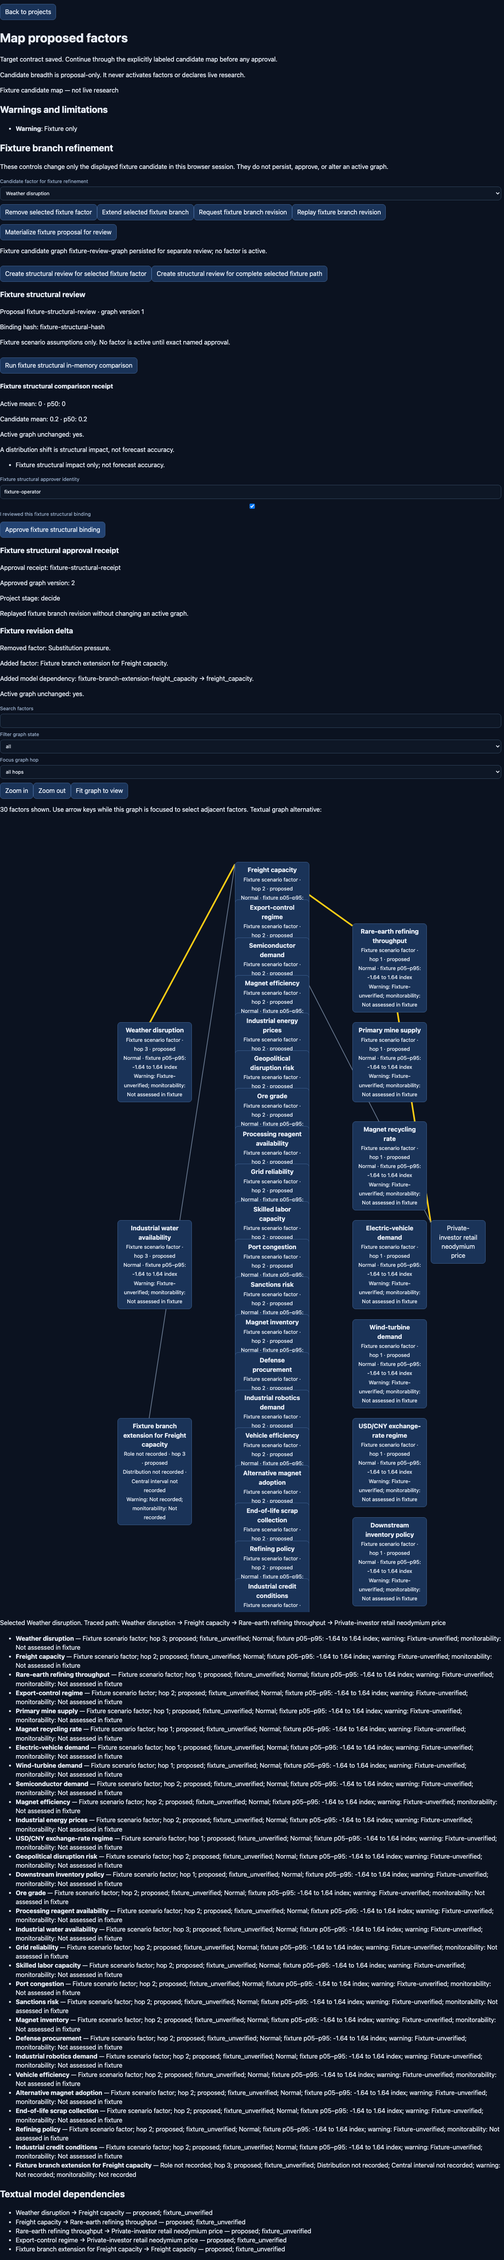
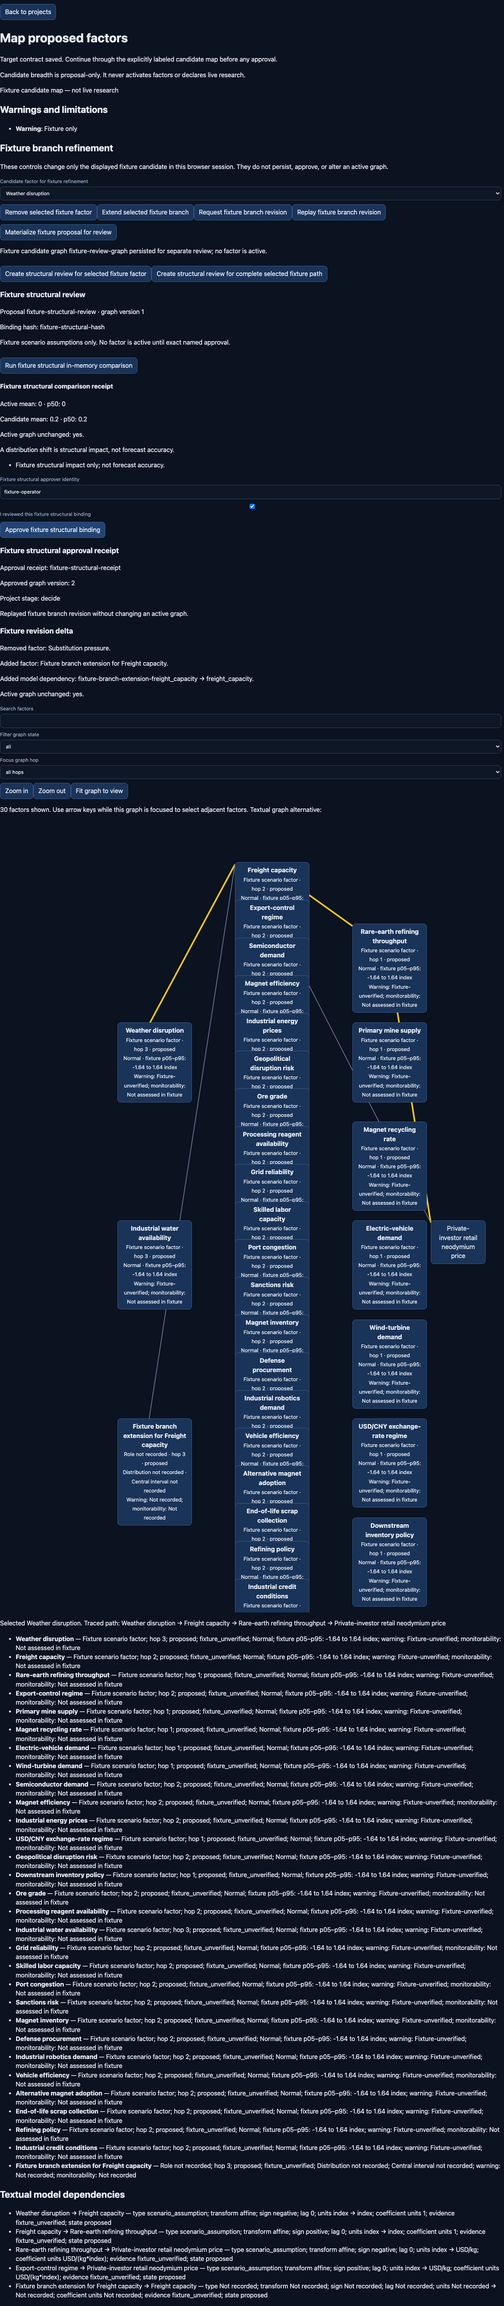
feat(map): show fixture relationship contracts

diff --git a/packages/lns_ui/e2e/canonical-build.spec.ts b/packages/lns_ui/e2e/canonical-build.spec.ts
@@ -356,10 +356,10 @@ test(`canonical fixture Build advances from a persisted target through Vet to a 
       evidence_classification: "fixture_unverified", generation_basis: "deterministic_fixture", active_graph_mutated: false,
       limitations: ["Fixture only"], graph_proposal: { target_node_id: "fixture_target" },
       relationships: [
-        { id: "weather_to_freight", parent_node_id: "weather_disruption", child_node_id: "freight_capacity" },
-        { id: "freight_to_refining", parent_node_id: "freight_capacity", child_node_id: "refining_throughput" },
-        { id: "refining_to_target", parent_node_id: "refining_throughput", child_node_id: "fixture_target" },
-        { id: "china_export_controls_to_target", parent_node_id: "china_export_controls", child_node_id: "fixture_target", transform: "affine", coefficient_parameters: [{ id: "coefficient", value: 0.2 }], state: "proposed" },
+        { id: "weather_to_freight", parent_node_id: "weather_disruption", child_node_id: "freight_capacity", relationship_type: "scenario_assumption", transform: "affine", source_unit: "index", target_unit: "index", sign: "negative", lag_periods: 0, coefficient_units: "1", state: "proposed", evidence_status: "fixture_unverified" },
+        { id: "freight_to_refining", parent_node_id: "freight_capacity", child_node_id: "refining_throughput", relationship_type: "scenario_assumption", transform: "affine", source_unit: "index", target_unit: "index", sign: "positive", lag_periods: 0, coefficient_units: "1", state: "proposed", evidence_status: "fixture_unverified" },
+        { id: "refining_to_target", parent_node_id: "refining_throughput", child_node_id: "fixture_target", relationship_type: "scenario_assumption", transform: "affine", source_unit: "index", target_unit: "USD/kg", sign: "negative", lag_periods: 0, coefficient_units: "USD/(kg*index)", state: "proposed", evidence_status: "fixture_unverified" },
+        { id: "china_export_controls_to_target", parent_node_id: "china_export_controls", child_node_id: "fixture_target", relationship_type: "scenario_assumption", transform: "affine", source_unit: "index", target_unit: "USD/kg", sign: "positive", lag_periods: 0, coefficient_units: "USD/(kg*index)", coefficient_parameters: [{ id: "coefficient", value: 0.2 }], state: "proposed", evidence_status: "fixture_unverified" },
       ], factors,
     }});
   });
@@ -395,7 +395,7 @@ test(`canonical fixture Build advances from a persisted target through Vet to a 
   await expect(page.getByText("Fixture candidate map — not live research")).toBeVisible();
   await expect(page.getByRole("heading", { name: "Warnings and limitations" })).toBeVisible();
   await expect(page.getByRole("group", { name: "Visual target-centered graph" })).toBeVisible();
-  await expect(page.getByLabel("Textual model dependencies")).toContainText("Weather disruption → Freight capacity — proposed; fixture_unverified");
+  await expect(page.getByLabel("Textual model dependencies")).toContainText("Weather disruption → Freight capacity — type scenario_assumption; transform affine; sign negative; lag 0; units index → index; coefficient units 1; evidence fixture_unverified; state proposed");
   await expect(page.getByRole("button", { name: "Weather disruption" })).toContainText("Fixture scenario factor");
   await expect(page.getByRole("button", { name: "Weather disruption" })).toContainText("Normal · fixture p05–p95: -1.64 to 1.64 index");
   await expect(page.getByText(/30 factors shown\. Use arrow keys while this graph is focused/)).toBeVisible();

diff --git a/packages/lns_ui_shared/src/graph/HopGraph.tsx b/packages/lns_ui_shared/src/graph/HopGraph.tsx
@@ -5,6 +5,14 @@ import { layoutHopGraph } from "./layout";
 interface GraphRelationship {
   parent_node_id?: string;
   child_node_id?: string;
+  relationship_type?: string;
+  transform?: string;
+  sign?: string;
+  lag_periods?: number;
+  lag_unit?: string;
+  source_unit?: string;
+  target_unit?: string;
+  coefficient_units?: string;
   state?: string;
   evidence_status?: string;
 }
@@ -112,6 +120,6 @@ export function HopGraph({
     </div>
     {selected && <p role="status">Selected {selectedLabel}{path.length > 0 && <>. Traced path: {path.map((id) => names.get(id) ?? id).join(" → ")}</>}</p>}
     <ul>{filtered.map((factor) => <li key={factor.id} data-x={layout[factor.id]?.x} data-y={layout[factor.id]?.y}><strong>{factor.label}</strong> — {factor.role ?? "Role not recorded"}; hop {factor.hop_distance}; <span>{factor.state}</span>; {factor.evidence_status}; {factor.distribution_family ?? "Distribution not recorded"}; {factor.central_interval ?? "Central interval not recorded"}; warning: {factor.warning ?? "Not recorded"}; monitorability: {factor.monitorability ?? "Not recorded"}</li>)}</ul>
-    <section aria-label="Textual model dependencies"><h2>Textual model dependencies</h2>{relationships.length === 0 ? <p>No model dependencies recorded.</p> : <ul>{relationships.map((relationship, index) => <li key={`${relationship.parent_node_id}-${relationship.child_node_id}-${index}`}>{names.get(relationship.parent_node_id ?? "") ?? "Unknown factor"} → {names.get(relationship.child_node_id ?? "") ?? "Unknown factor"} — {relationship.state ?? "proposed"}; {relationship.evidence_status ?? "fixture_unverified"}</li>)}</ul>}</section>
+    <section aria-label="Textual model dependencies"><h2>Textual model dependencies</h2>{relationships.length === 0 ? <p>No model dependencies recorded.</p> : <ul>{relationships.map((relationship, index) => <li key={`${relationship.parent_node_id}-${relationship.child_node_id}-${index}`}>{names.get(relationship.parent_node_id ?? "") ?? "Unknown factor"} → {names.get(relationship.child_node_id ?? "") ?? "Unknown factor"} — type {relationship.relationship_type ?? "Not recorded"}; transform {relationship.transform ?? "Not recorded"}; sign {relationship.sign ?? "Not recorded"}; lag {typeof relationship.lag_periods === "number" ? `${relationship.lag_periods}${relationship.lag_unit ? ` ${relationship.lag_unit}` : ""}` : "Not recorded"}; units {relationship.source_unit ?? "Not recorded"} → {relationship.target_unit ?? "Not recorded"}; coefficient units {relationship.coefficient_units ?? "Not recorded"}; evidence {relationship.evidence_status ?? "fixture_unverified"}; state {relationship.state ?? "proposed"}</li>)}</ul>}</section>
   </section>;
 }

diff --git a/packages/lns_ui_shared/src/testing/graphFixture.ts b/packages/lns_ui_shared/src/testing/graphFixture.ts
@@ -67,10 +67,10 @@ export function createNeodymiumGraphFixture(): CandidateGraphFixture & {
     },
     factors,
     relationships: [
-      { parent_node_id: "weather_disruption", child_node_id: "freight_capacity" },
-      { parent_node_id: "freight_capacity", child_node_id: "refining_throughput" },
-      { parent_node_id: "refining_throughput", child_node_id: target.target_node_id },
-      { parent_node_id: "china_export_controls", child_node_id: target.target_node_id, id: "china_export_controls_to_target", transform: "affine", coefficient_parameters: [{ id: "coefficient", value: 0.2 }], state: "proposed" },
+      { id: "weather_to_freight", parent_node_id: "weather_disruption", child_node_id: "freight_capacity", relationship_type: "scenario_assumption", transform: "affine", source_unit: "index", target_unit: "index", sign: "negative", lag_periods: 0, coefficient_units: "1", state: "proposed", evidence_status: "fixture_unverified" },
+      { id: "freight_to_refining", parent_node_id: "freight_capacity", child_node_id: "refining_throughput", relationship_type: "scenario_assumption", transform: "affine", source_unit: "index", target_unit: "index", sign: "positive", lag_periods: 0, coefficient_units: "1", state: "proposed", evidence_status: "fixture_unverified" },
+      { id: "refining_to_target", parent_node_id: "refining_throughput", child_node_id: target.target_node_id, relationship_type: "scenario_assumption", transform: "affine", source_unit: "index", target_unit: "USD/kg", sign: "negative", lag_periods: 0, coefficient_units: "USD/(kg*index)", state: "proposed", evidence_status: "fixture_unverified" },
+      { parent_node_id: "china_export_controls", child_node_id: target.target_node_id, id: "china_export_controls_to_target", relationship_type: "scenario_assumption", transform: "affine", source_unit: "index", target_unit: "USD/kg", sign: "positive", lag_periods: 0, coefficient_units: "USD/(kg*index)", coefficient_parameters: [{ id: "coefficient", value: 0.2 }], state: "proposed", evidence_status: "fixture_unverified" },
     ],
   };
 }

diff --git a/packages/lns_ui_shared/src/graph/HopGraph.test.tsx b/packages/lns_ui_shared/src/graph/HopGraph.test.tsx
@@ -13,7 +13,7 @@ describe("HopGraph", () => {
     expect(screen.getByRole("searchbox", { name: "Search factors" })).toBeVisible();
     expect(screen.getByRole("button", { name: "Weather disruption" })).toBeVisible();
     expect(screen.getAllByText("proposed")[0]).toBeVisible();
-    expect(screen.getByLabelText("Textual model dependencies")).toHaveTextContent("Weather disruption → Freight capacity — proposed; fixture_unverified");
+    expect(screen.getByLabelText("Textual model dependencies")).toHaveTextContent("Weather disruption → Freight capacity — type scenario_assumption; transform affine; sign negative; lag 0; units index → index; coefficient units 1; evidence fixture_unverified; state proposed");
     expect(screen.getByRole("button", { name: "Weather disruption" })).toHaveTextContent("Fixture scenario factor");
     expect(screen.getByRole("button", { name: "Weather disruption" })).toHaveTextContent("Normal · fixture p05–p95: -1.64 to 1.64 index");
     expect(screen.getByRole("button", { name: "Weather disruption" })).toHaveTextContent("Warning: Fixture-unverified; monitorability: Not assessed in fixture");

diff --git a/packages/lns_server/tests/test_candidate_graph_fixture.py b/packages/lns_server/tests/test_candidate_graph_fixture.py
@@ -48,6 +48,25 @@ def test_fixture_candidate_graph_has_15_ranked_inactive_factors_and_three_hop_pa
     assert all(factor["warning"] == "Fixture-unverified" for factor in factors)
     assert all(factor["monitorability"] == "Not assessed in fixture" for factor in factors)
     assert any(factor["hop_distance"] == 3 for factor in factors)
+    weather_edge = next(edge for edge in proposal["relationships"] if edge["id"] == "weather_to_freight")
+    assert weather_edge == {
+        "id": "weather_to_freight",
+        "parent_node_id": "weather_disruption",
+        "child_node_id": "freight_capacity",
+        "relationship_type": "scenario_assumption",
+        "transform": "affine",
+        "source_unit": "index",
+        "target_unit": "index",
+        "sign": "negative",
+        "lag_periods": 0,
+        "lag_unit": None,
+        "coefficient_units": "1",
+        "coefficient_parameters": [{"id": "coefficient", "value": -0.2}],
+        "shared_latent_parent_id": None,
+        "state": "proposed",
+        "evidence_claim_ids": [],
+        "schema_version": 1,
+    }
     assert [factor["rank"] for factor in factors] == list(range(1, 16))
     assert {edge["parent_node_id"] for edge in proposal["relationships"]} >= {
         "weather_disruption",

diff --git a/TASK_QUEUE.md b/TASK_QUEUE.md
@@ -69,7 +69,7 @@
 | Q4-02 | Build target-intake and research-consent flow | Q3-01–02, Q4-01 | accessible forms and error states tested | In progress — target intake, typed/persisted Vet actions, planned research categories, Pause/Resume, a restart-tested local-only no-egress preference, and an explicit no-content-sent provider-routing consent receipt are implemented; provider execution and complete review remain (2026-07-28) |
 | Q4-03 | Build target-centered hop graph | Q3-03, Q4-01 | 30-node deterministic layout has no default overlap | In progress — canonical 30-factor deterministic fixture and selected approved Edit graph support no-default-overlap hop layers, pan/zoom/fit, filtering, keyboard selection, three-hop tracing, and textual alternative. Each fixture graph card and text-alternative entry now exposes its labeled fixture role, hop/state/evidence, Normal family, fixture p05–p95 interval, warning, and monitorability; browser-only extension fields remain `Not recorded` rather than inferred. The fixture candidate graph also adds a textual model-dependency list so every rendered edge exposes a non-color proposed/fixture-evidence state. The fixture map supports remove/extend/request/replay controls with a complete candidate delta and explicit active-graph immutability receipt; that revision remains browser-session fixture state. Its unedited deterministic fixture can additionally be materialized as a separate persisted graph containing an active target and 15 proposed factors, with no active-graph mutation; once that receipt returns, the existing Map-stage project retains the review graph ID without changing lifecycle or active graph version. The materialized fixture carries explicit scenario-assumption coefficients and transform slots, so Map can create/display a server-issued non-active structural binding for a selected direct factor or a complete selected hop-count-matching path. Browser proof now reviews, compares, and approves the Weather → Freight → Refining → target path; full candidate-graph selection remains absent. Approved-map edge details now use persisted active relationship contracts for type, transform, sign, units, coefficient parameters, lag, evidence claims, and state; missing legacy values remain explicit. Browser proof asserts 30 unique rendered coordinates at both `1440x900` and `1280x800`; graph-node evidence linking remains (2026-07-28) |
 | Q4-04 | Build node distribution inspector | Q1-01–04, Q4-01 | eight family forms/curves/derived values tested | In progress — reusable eight-family inspector is bound to the selected persisted Edit graph node and displays recorded units/support, canonical parameters, independently labeled as-of/provenance/evidence-classification state, all-family curve/tail/alternative/limitation guidance, and kernel-derived analytic values plus fixed-seed sampled p05/p50/p95 display quantiles through a read-only route. Derived values explicitly identify their server-owned derivation; missing legacy material metadata is `Not recorded`. Same-family Normal/LogNormal median/P90 elicitation stages a provenance-bearing non-active candidate revision and an in-memory numeric equivalent. A server-owned route provides named intuitive derivations for every canonical family, and Edit renders/stages the six remaining family forms through that route; component coverage verifies the intended human-facing input set for every non-quantile form, while the fixture browser journey sends all six non-quantile forms through the derivation endpoint. A typed extension to the exact-binding candidate proposal atomically activates matching parameters and the full provenance specification on approval; the inspector immediately refreshes as-of/support/method/confidence/evidence details from an authoritative returned graph. Fixture browser proof covers proposal review for Normal and Gamma. Curve editing and fitting remain (86 kernel tests; 89 server tests; 129 shared tests; 8 fixture E2E tests; 2026-07-28). |
-| Q4-05 | Build relationship inspector | Q3-05, Q4-01 | type, units, lag, evidence, state editable/reviewable | In progress — Canonical Edit now binds the selected persisted active dependency to the reusable read-only inspector, while the read-only approved graph projects that same persisted contract in its edge-detail list. Both show stored type, transform, coefficient parameters/units, source/target units, sign, lag, evidence-claim IDs, and state; missing legacy fields are `Not recorded`, never plausible defaults. Map now creates the same exact structural review for one selected direct fixture relationship/activation set or a complete hop-count-matching fixture path, displays an in-memory active-versus-candidate structural comparison with an explicit no-mutation receipt, and gates named project approval on that receipt. Physical deletion/restoration, generic state-delta approval, and complete candidate-graph review remain (94 server tests; 8 focused shared Map tests; 2 viewport E2E tests, 2026-07-28). |
+| Q4-05 | Build relationship inspector | Q3-05, Q4-01 | type, units, lag, evidence, state editable/reviewable | In progress — Canonical Edit now binds the selected persisted active dependency to the reusable read-only inspector, while the read-only approved graph projects that same persisted contract in its edge-detail list. Both show stored type, transform, coefficient parameters/units, source/target units, sign, lag, evidence-claim IDs, and state; missing legacy fields are `Not recorded`, never plausible defaults. The candidate Map textual alternative now exposes the same fixture contract fields for every rendered edge: type, transform, sign, lag, source/target units, coefficient units, evidence class, and proposed state. Map also creates the same exact structural review for one selected direct fixture relationship/activation set or a complete hop-count-matching fixture path, displays an in-memory active-versus-candidate structural comparison with an explicit no-mutation receipt, and gates named project approval on that receipt. Physical deletion/restoration, generic state-delta approval, and complete candidate-graph review remain (94 server tests; 8 focused shared Map tests; 2 viewport E2E tests, 2026-07-28). |
 | Q4-06 | Build evidence drawer and warning center | Q2-03, Q4-01 | claims/conflicts/unknowns trace to nodes | In progress — canonical Vet can load/review claims with source/conflict context and Map shows fixture limitations. In Edit, the evidence drawer defaults to IDs linked by persisted node distribution specifications and active relationship contracts, then narrows to a selected graph factor or selected persisted relationship’s linked claims without resetting draft controls; unrelated target claims are excluded. Live source capture remains (124 shared tests; 8 fixture E2E tests, 2026-07-28) |
 | Q4-07 | Build active-vs-candidate and model/ensemble comparison | Q3-06, Q4-01 | paths and distribution changes visible; explicit two-model weighted ensemble is backend-owned and no false improvement label appears | In progress — Edit stages/removes a graph-derived multi-parameter local candidate set, runs it in memory with paired summaries/affected path/no-improvement limitation, and can persist exact numeric overrides or explicit active/excluded node/dependency-state deltas as non-active version-bound revisions. Two durable revisions with a shared base can now be compared as an explicit payload delta covering parameter, state, proposed relationship, and new-factor additions/removals/changes; it refuses mismatched bases and does not call the result a simulation, score, or approval. Run can execute saved version-bound numeric scenarios and now displays two executed named scenario receipts side by side with their means, p05–p95 ranges, and override-to-target bindings; each remains an in-memory comparison. It can also compare/save/reload two operator-specified graph versions as a backend-sampled weighted distribution mixture without a false improvement/recommendation label. Saved ensembles now require a nonblank operator decision rationale, preserve it through restart, bind it into the server-issued hash, and show it during exact named review/approval without activating an ensemble or mutating a graph. Active graphs now persist relationship metadata, and a server-issued structural relationship-addition proposal validates and structurally shadow-simulates a zero-lag trial graph without mutation; new structural elements and restore/undo remain (16 workspace API tests; 129 shared tests; 2026-07-28) |
 | Q4-08 | Build approval and run-receipt views | Q3-07, Q4-01 | version-bound review and receipts visible | In progress — Edit can save the exact shadow-compared override or structural relationship addition, display its server-issued binding hash/version, require a named operator plus explicit review acknowledgment, and display the approval receipt. A Map-stage Build project can now likewise approve its first direct fixture structural binding or complete selected fixture path only after the exact binding’s in-memory structural comparison confirms the active graph is unchanged and the operator gives named/acknowledged review; that establishes its first active graph version and Decide lifecycle. Project-scoped numeric and structural approval both update the confirmed workspace lifecycle/version only after graph acceptance. Run displays bounded read-only persisted snapshot history, ensemble exact-binding approval receipt history, and explicit local finite-difference sensitivity rows/method limitations; Monitor hands an event back to that immutable Run workspace without executing a simulation. Global analysis and complete candidate-graph Build approval remain (2026-07-28) |

diff --git a/PROGRESS.md b/PROGRESS.md
@@ -111,7 +111,7 @@ construction.
 | Exact proposed-node structural activation | In progress | Codex | A structural proposal can now bind an explicit unique list of existing proposed node IDs. The server validates every listed node against the exact base graph, materializes them as active only in the trial, includes the set in the persisted proposal/hash, and—only after named exact-hash approval—activates them atomically with the approved relationship delta and events. The standalone and project-scoped approval paths both forward that set. This enables a future candidate-structure review flow; it does not create fixture dependencies, choose coefficients, change a Map lifecycle, or authorize browser-local nodes (8 focused structural API tests, 2026-07-28). |
 | Fixture structural-review receipt | In progress | Codex | Materialized fixture nodes now carry the otherwise-empty affine transform slots required by candidate edge review, while each fixture edge has an explicit `0.2`/`-0.2` fixture scenario-assumption coefficient. These remain proposed and unverified. The Map can materialize the graph, then create and display a server-issued binding hash for one selected direct factor or for a complete selected path whose relationship count matches its declared hop distance; it refuses incomplete or mismatched paths. The server test confirms the three-edge Weather → Freight → Refining → target trial remains non-active (94 server tests; 8 focused shared Map tests; shared type build, 2026-07-28). |
 | First Build structural approval | In progress | Codex | A Map-stage project with a retained review graph and no active graph version may now make its first exact structural approval. The server rejects the same empty-version state outside Map, then atomically activates the binding’s selected proposed nodes/relationships and records Decide plus graph version 2. Map exposes that server gate only after the operator runs the exact binding’s in-memory active-versus-candidate structural comparison and receives an active-graph-unchanged receipt, then supplies a nonblank name and confirms review of the exact hash; its receipt identifies the approved graph version and project stage. Canonical Build uses the complete Weather → Freight → Refining → target fixture scenario-assumption path; comparison movement is structural impact only—not live evidence or an accuracy claim (94 server tests; 8 focused shared Map tests; shared type build; 2 viewport E2E tests, 2026-07-28). |
-| Relationship inspector foundation | In progress | Codex | The reusable inspector is bound read-only to Canonical Edit’s selected persisted active dependency, and the approved-map edge list projects the same persisted contract before a draft begins. Both map stored relationship type, sign, transform, coefficient parameters/units, source/target units, lag, evidence-claim IDs, and state; absent legacy values render as `Not recorded` rather than inferred defaults. Draft-only inspector editing and proposed-contract staging remain separate, and active graph structure still requires exact structural proposal review and approval. The server rejects dangling evidence claims; the fixture-intercepted Monitor → Edit journey asserts the persisted contract’s type and evidence claim in both surfaces. Relationships remain outside generic numeric simulation/approval; physical deletion/restoration and generic state-delta approval remain (123 shared tests; shared/canonical builds; 8 fixture E2E tests, 2026-07-28). |
+| Relationship inspector foundation | In progress | Codex | The reusable inspector is bound read-only to Canonical Edit’s selected persisted active dependency, and the approved-map edge list projects the same persisted contract before a draft begins. Both map stored relationship type, sign, transform, coefficient parameters/units, source/target units, lag, evidence-claim IDs, and state; absent legacy values render as `Not recorded` rather than inferred defaults. The candidate Map’s textual alternative now presents the equivalent fixture relationship contract for every rendered edge—type, transform, sign, lag, source/target units, coefficient units, evidence class, and state—without hiding missing values. Draft-only inspector editing and proposed-contract staging remain separate, and active graph structure still requires exact structural proposal review and approval. The server rejects dangling evidence claims; the fixture-intercepted Monitor → Edit journey asserts the persisted contract’s type and evidence claim in both surfaces. Relationships remain outside generic numeric simulation/approval; physical deletion/restoration and generic state-delta approval remain (138 shared tests; 94 server tests; 2 viewport E2E tests, 2026-07-28). |
 | Evidence review foundation | In progress | Codex | The canonical Vet stage mounts a review drawer with source/conflict context and explicit Include/Exclude decisions. Edit derives claim IDs from persisted node distribution specifications and active relationship contracts, filters the same target review to those graph-linked claims, and narrows to either the selected approved factor or selected persisted relationship’s claims. The workspace memoizes its shadow-comparison adapter so contextual selection cannot reset candidate draft values. The canonical browser flow proves the graph-linked relationship claim surface. Live source capture remains (124 shared tests, shared/canonical type builds, and 8 E2E tests, 2026-07-28). |
 | Fixture workspace composition | Complete (fixture-only) | Codex | Shared fixture workspace composes target intake, graph, and warning surfaces inside the workspace shell (focused composition test and type build, 2026-07-28). It is not a substitute for the required persisted/live workflow. |
 | Clean-checkout CI foundation | In progress | Codex | A GitHub Actions workflow now installs Python and all three UI package dependencies from a clean Ubuntu checkout, runs kernel/server pytest, shared UI tests/build, Chromium-backed canonical UI build/E2E, Gas build, the GUI evidence gate, and `git diff --check`. It requires remote GitHub execution after push/PR; it does not claim Gate 4–6 completion. |

diff --git a/docs/verification/gui/FINAL_GUI_REPORT.md b/docs/verification/gui/FINAL_GUI_REPORT.md
@@ -29,7 +29,7 @@
 | [P13] Monitor inspect/re-run/branch | Fixture-only | Monitor component and browser proof cover immutable event inspection, an explicit handoff to the immutable Run workspace, and a separate Edit branch. | The Run handoff requires an explicit operator click and does not execute a simulation; event data is fixture-only. |
 | [P14] 30-node no-overlap graph | Fixture-only verified | Canonical Build fixture renders 30 factors, asserts 30 unique `data-x:data-y` coordinates, and saves both required viewport screenshots. | Deterministic fixture layout only; not a live researched graph. |
 | [P15] Graph navigation and text alternative | Locally verified | `HopGraph`/layout component tests and canonical graph path interaction. | Coverage is fixture-based. |
-| [P16] Non-color status encoding | Fixture-only | Canonical Build asserts node role, state/evidence, distribution/fixture interval, warning, monitorability, and a textual model-dependency list for each rendered fixture edge, including proposed state and fixture evidence classification. | This proves the candidate fixture graph surface; a full audit of every historical/legacy edge payload remains incomplete. |
+| [P16] Non-color status encoding | Fixture-only | Canonical Build asserts node role, state/evidence, distribution/fixture interval, warning, monitorability, and a textual model-dependency list for each rendered fixture edge. The Weather → Freight assertion proves type, transform, sign, lag, source/target units, coefficient units, fixture evidence class, and proposed state. | This proves the candidate fixture graph surface; a full audit of every historical/legacy edge payload remains incomplete. |
 | [P17] Material-number provenance | Partial | The distribution inspector independently labels support, units, as-of time, evidence classification, provenance, and server-derived value status; focused component coverage includes both populated metadata and explicit legacy fallbacks. | The selected legacy graph record can still lack one or more fields, which render as `Not recorded`; this is not full historical-data remediation. |
 | [P18] Honest comparisons | Locally verified | Shadow/structural/revision comparison receipts and tests forbid improvement language. | No accuracy claim is made. |
 | [P19] State coverage | Partial | Component coverage proves cancellation of an unsaved Vet action retains the surface without recording it, provider routing shows an explicit permission-denied state until confirmation, and Project Home distinguishes loading, empty, partial-data, and total-list-failure states while retaining available rows whenever possible. | This does not yet cover every long-running, external-provider, or browser journey state. |
